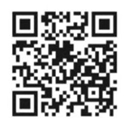
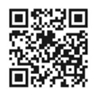
Update requirements and readme

diff --git a/fuxictr/autotuner.py b/fuxictr/autotuner.py
@@ -30,7 +30,7 @@ def load_model_config(config_dir, experiment_id):
     found_keys = []
     for config in model_configs:
         with open(config, "r") as cfg:
-            config_dict = yaml.load(cfg)
+            config_dict = yaml.load(cfg, Loader=yaml.FullLoader)
             if "Base" in config_dict:
                 params.update(config_dict["Base"])
                 found_keys.append("Base")
@@ -51,7 +51,7 @@ def load_dataset_config(config_dir, dataset_id):
         dataset_configs = glob.glob(os.path.join(config_dir, "dataset_config/*.yaml"))
     for config in dataset_configs:
         with open(config, "r") as cfg:
-            config_dict = yaml.load(cfg)
+            config_dict = yaml.load(cfg, Loader=yaml.FullLoader)
             if dataset_id in config_dict:
                 params.update(config_dict[dataset_id])
                 break
@@ -59,7 +59,7 @@ def load_dataset_config(config_dir, dataset_id):
 
 def enumerate_params(config_file, exclude_expid=[]):
     with open(config_file, "r") as cfg:
-        config_dict = yaml.load(cfg)
+        config_dict = yaml.load(cfg, Loader=yaml.FullLoader)
     # tuning space
     tune_dict = config_dict["tuner_space"]
     for k, v in tune_dict.items():
@@ -67,7 +67,10 @@ def enumerate_params(config_file, exclude_expid=[]):
             tune_dict[k] = [v]
     experiment_id = config_dict["base_expid"]
     if "model_config" in config_dict:
-        model_dict = config_dict["model_config"][experiment_id]
+        model_dict = dict()
+        if 'Base' in config_dict["model_config"]:
+            model_dict.update(config_dict["model_config"]['Base'])
+        model_dict.update(config_dict["model_config"][experiment_id])
     else:
         base_config_dir = config_dict.get("base_config", os.path.dirname(config_file))
         model_dict = load_model_config(base_config_dir, experiment_id)
@@ -144,7 +147,7 @@ def load_experiment_ids(config_dir):
     experiment_id_list = []
     for config in model_configs:
         with open(config, "r") as cfg:
-            config_dict = yaml.load(cfg)
+            config_dict = yaml.load(cfg, Loader=yaml.FullLoader)
             experiment_id_list += config_dict.keys()
     return sorted(experiment_id_list)
 

diff --git a/README.md b/README.md
@@ -15,7 +15,6 @@ Click-through rate (CTR) prediction is an critical task for many industrial appl
 | RecSys'16 | [FFM](./fuxictr/pytorch/models/FFM.py) | [Field-aware Factorization Machines for CTR Prediction](https://dl.acm.org/citation.cfm?id=2959134) |:heavy_check_mark: |
 | RecSys'16 | [YoutubeDNN](./fuxictr/pytorch/models/DNN.py) | [Deep Neural Networks for YouTube Recommendations](http://art.yale.edu/file_columns/0001/1132/covington.pdf) |:heavy_check_mark: |
 | DLRS'16 | [Wide&Deep](./fuxictr/pytorch/models/WideDeep.py)  | [Wide & Deep Learning for Recommender Systems](https://arxiv.org/pdf/1606.07792.pdf) |:heavy_check_mark: |
-|ECIR'16 | [FNN](./fuxictr/pytorch/models/FNN.py) | [Deep Learning over Multi-field Categorical Data: A Case Study on User Response Prediction](https://arxiv.org/abs/1601.02376) |:heavy_check_mark: |
 | ICDM'16 | [IPNN](./fuxictr/pytorch/models/PNN.py) | [Product-based Neural Networks for User Response Prediction](https://arxiv.org/pdf/1611.00144.pdf) | :heavy_check_mark: |
 | KDD'16 | [DeepCross](./fuxictr/pytorch/models/DeepCrossing.py) | [Deep Crossing: Web-Scale Modeling without Manually Crafted Combinatorial Features](https://www.kdd.org/kdd2016/papers/files/adf0975-shanA.pdf)  | :heavy_check_mark: |
 | NIPS'16 | [HOFM](./fuxictr/pytorch/models/HOFM.py) | [Higher-Order Factorization Machines](https://papers.nips.cc/paper/6144-higher-order-factorization-machines.pdf) | :heavy_check_mark: |
@@ -27,12 +26,12 @@ Click-through rate (CTR) prediction is an critical task for many industrial appl
 |KDD'18 | [xDeepFM](./fuxictr/pytorch/models/xDeepFM.py) | [xDeepFM: Combining Explicit and Implicit Feature Interactions for Recommender Systems](https://arxiv.org/pdf/1803.05170.pdf) | :heavy_check_mark: |
 |KDD'18 | [DIN](./fuxictr/pytorch/models/DIN.py) | [Deep Interest Network for Click-Through Rate Prediction](https://www.kdd.org/kdd2018/accepted-papers/view/deep-interest-network-for-click-through-rate-prediction) | :heavy_check_mark: |
 |CIKM'19 | [FiGNN](./fuxictr/pytorch/models/FiGNN.py) | [FiGNN: Modeling Feature Interactions via Graph Neural Networks for CTR Prediction](https://arxiv.org/abs/1910.05552) | :heavy_check_mark: |
-|CIKM'19 | [AutoInt+](./fuxictr/pytorch/models/AutoInt.py) | [AutoInt: Automatic Feature Interaction Learning via Self-Attentive Neural Networks](https://arxiv.org/abs/1810.11921) | :heavy_check_mark: |
+|CIKM'19 | [AutoInt/AutoInt+](./fuxictr/pytorch/models/AutoInt.py) | [AutoInt: Automatic Feature Interaction Learning via Self-Attentive Neural Networks](https://arxiv.org/abs/1810.11921) | :heavy_check_mark: |
 |RecSys'19 | [FiBiNET](./fuxictr/pytorch/models/FiBiNET.py) | [FiBiNET: Combining Feature Importance and Bilinear feature Interaction for Click-Through Rate Prediction](https://arxiv.org/abs/1905.09433) | :heavy_check_mark: |
 |WWW'19 | [FGCNN](./fuxictr/pytorch/models/FGCNN.py) | [Feature Generation by Convolutional Neural Network for Click-Through Rate Prediction](https://arxiv.org/abs/1904.04447) | :heavy_check_mark: |
-| AAAI'19| [HFM+](./fuxictr/pytorch/models/HFM.py) | [Holographic Factorization Machines for Recommendation](https://ojs.aaai.org//index.php/AAAI/article/view/4448)  | :heavy_check_mark: |
+| AAAI'19| [HFM/HFM+](./fuxictr/pytorch/models/HFM.py) | [Holographic Factorization Machines for Recommendation](https://ojs.aaai.org//index.php/AAAI/article/view/4448)  | :heavy_check_mark: |
 | Neural Networks'20 | [ONN](./fuxictr/pytorch/models/ONN.py)  | [Operation-aware Neural Networks for User Response Prediction](https://arxiv.org/pdf/1904.12579)  | :heavy_check_mark: |
-| AAAI'20 | [AFN+](./fuxictr/pytorch/models/AFN.py) | [Adaptive Factorization Network: Learning Adaptive-Order Feature Interactions](https://ojs.aaai.org/index.php/AAAI/article/view/5768) | :heavy_check_mark: |
+| AAAI'20 | [AFN/AFN+](./fuxictr/pytorch/models/AFN.py) | [Adaptive Factorization Network: Learning Adaptive-Order Feature Interactions](https://ojs.aaai.org/index.php/AAAI/article/view/5768) | :heavy_check_mark: |
 | AAAI'20  | [LorentzFM](./fuxictr/pytorch/models/LorentzFM.py) | [Learning Feature Interactions with Lorentzian Factorization](https://arxiv.org/abs/1911.09821) | :heavy_check_mark: |
 | WSDM'20 | [InterHAt](./fuxictr/pytorch/models/InterHAt.py) | [Interpretable Click-through Rate Prediction through Hierarchical Attention](https://dl.acm.org/doi/10.1145/3336191.3371785) | :heavy_check_mark: |
 | DLP-KDD'20 | [FLEN](./fuxictr/pytorch/models/FLEN.py) | [FLEN: Leveraging Field for Scalable CTR Prediction](https://arxiv.org/abs/1911.04690) | :heavy_check_mark: |
@@ -44,11 +43,11 @@ FuxiCTR has the following dependent requirements to install. While the implement
 
 + python 3.6
 + pytorch v1.0/v1.1
++ pyyaml >=5.1
 + scikit-learn
 + pandas
 + numpy
 + h5py
-+ pyyaml
 + tqdm
 
 ## Get Started
@@ -105,7 +104,7 @@ For tuning model hyper-parameters, you can apply grid-search over the specified 
 + --tag: (optional) Specify the tag to determine which expid to run (e.g. 001 for the first expid). This is useful to rerun one specific experiment_id that contains the tag.
 + --gpu: The available gpus for parameters tuning and multiple gpus can be used (e.g., using --gpu 0 1 for two gpus)
 
-In the following example, we use the expid `FM_test` in `benchmarks/expid_config` as the base, and create a tuner config file `FM_tuner_config.yaml` in `benchmarks/tuner_config`, which defines the tuning space for parameter tuning. Note that if a key in `tuner_space` has values stored in a list, those values will be grid-searched. 
+In the following example, we use the hyper-parameters of `FM_test` in [benchmarks/expid_config](./benchmarks/expid_config) as the base setting, and create a tuner config file `FM_tuner_config.yaml` in [benchmarks/tuner_config](./benchmarks/tuner_config), which defines the tuning space for parameter tuning. In particular, if a key in `tuner_space` has values stored in a list, those values will be grid-searched. Otherwise, the default value in `FM_test` will be applied. After finished, all the searched results can be accessed from `FM_tuner_config.csv` in the `./benchmarks` folder.
 
 ```bash
 cd benchmarks
@@ -122,7 +121,7 @@ For more running examples, please refer to the benchmarking results in [BARS-CTR
 ## Discussion
 Welcome to join our WeChat group for any questions and discussions.
 
-![Scan WeChat QR](./docs/wechat.jpg)
+![Scan WeChat QR Code](https://gitee.com/xpai/Images/raw/master/1637915312191.jpg)
 
 ## Join Us
 We have open positions for internships and full-time jobs. If you are interested in research and practice in recommender systems, please send your CV to jamie.zhu@huawei.com.
